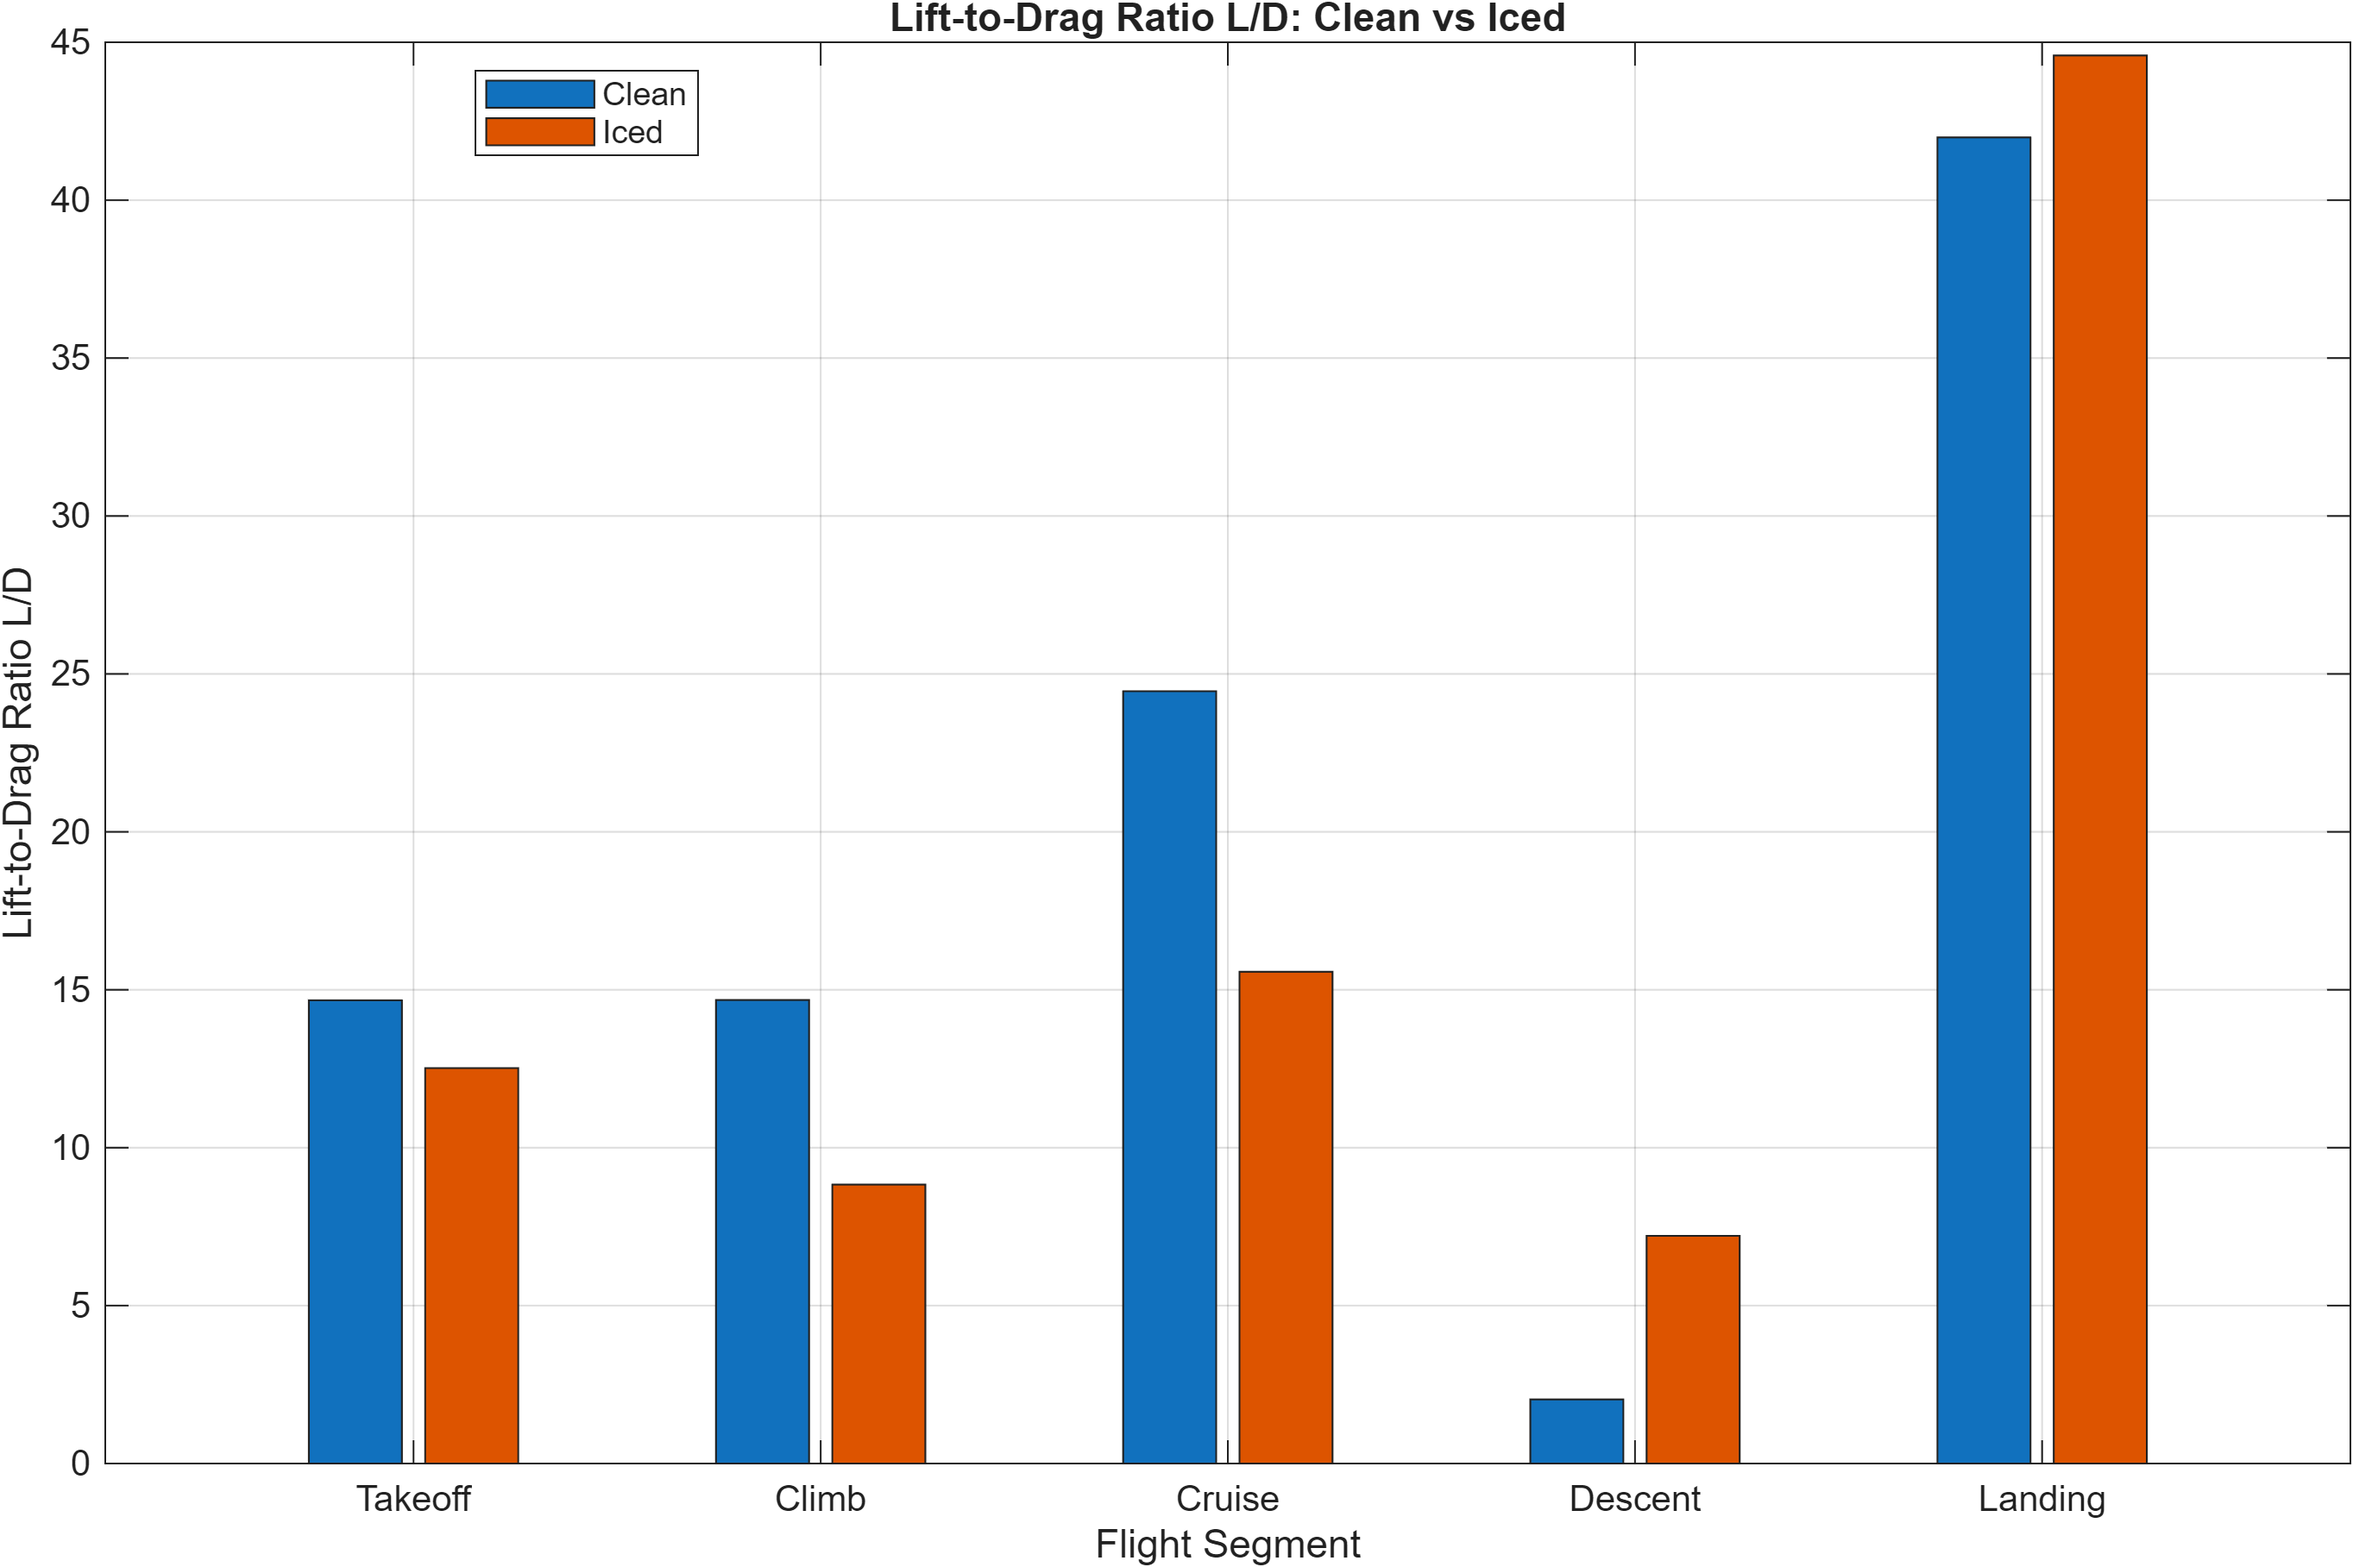
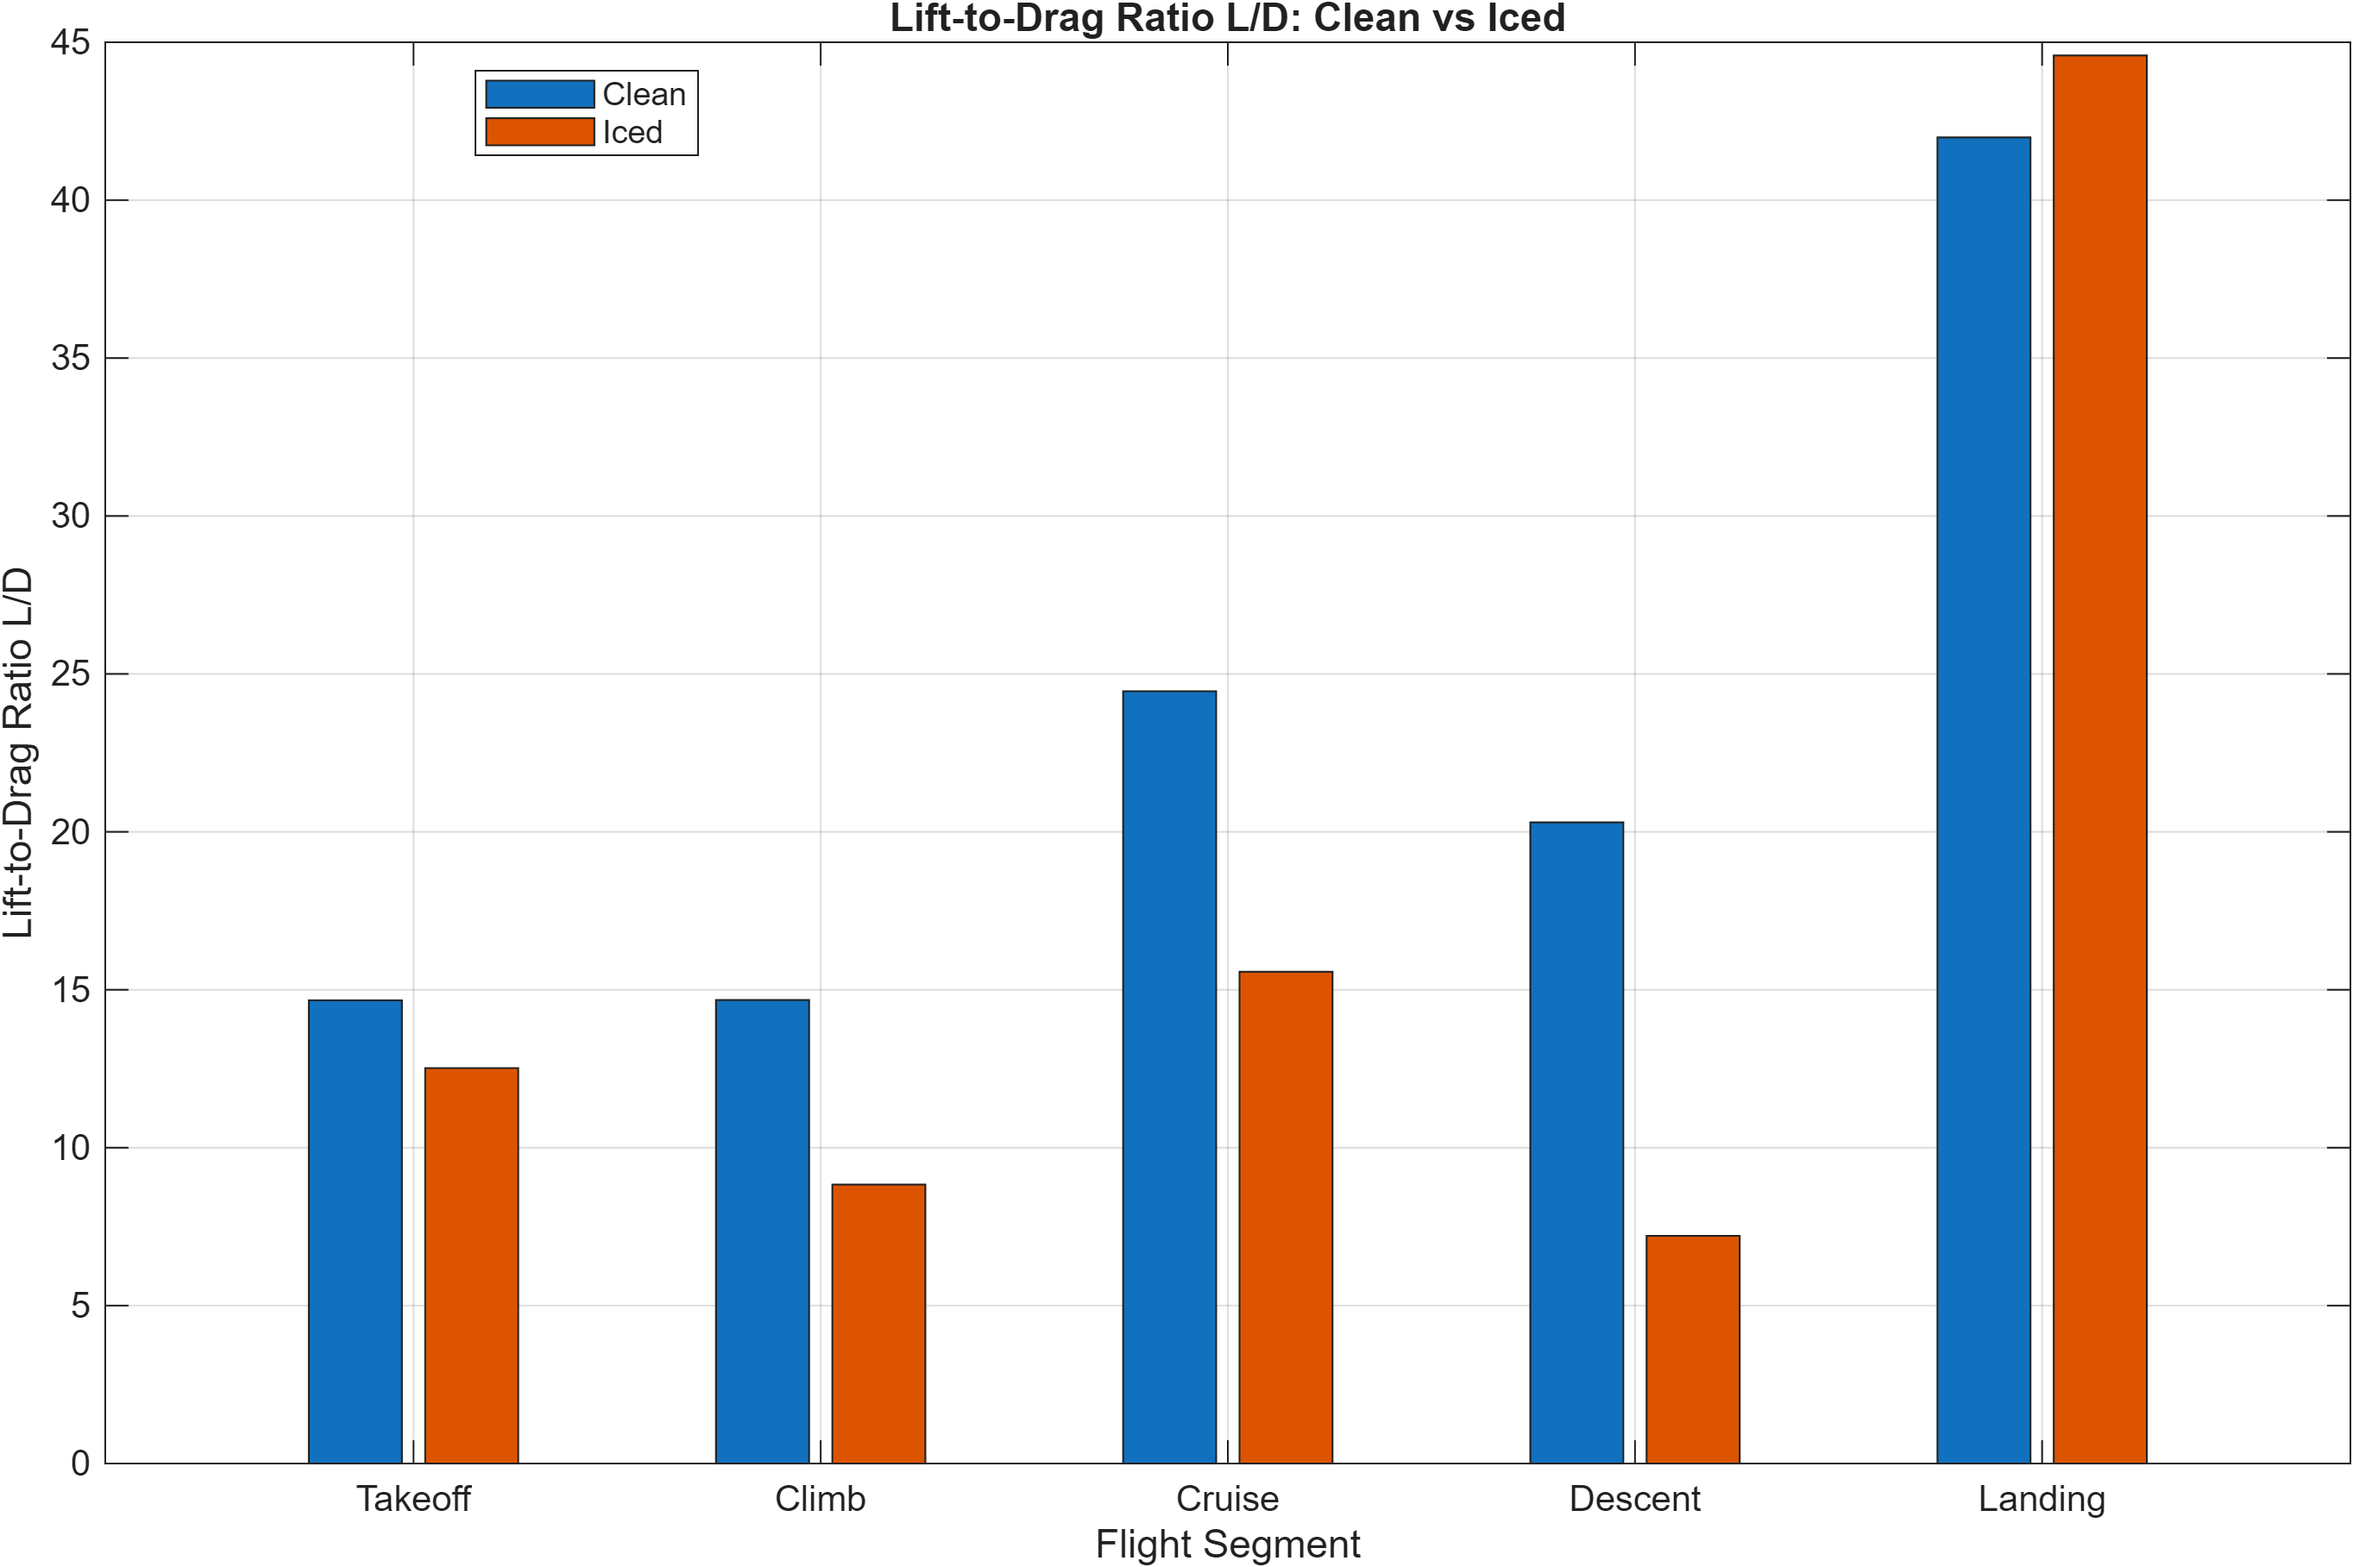
fixed a chart

Changed region(s): [[0.6234, 0.5239, 0.7169, 0.8938]]

diff --git a/src/plot_flight_comparison.m b/src/plot_flight_comparison.m
@@ -5,7 +5,7 @@ segments = ["Takeoff"; "Climb"; "Cruise"; "Descent"; "Landing"];
 
 % Clean data
 CL_clean = [0.80684; 0.8013; 0.31079; 0.5154 ; 0.6802];
-CD_clean = [0.055013; 0.0546; 0.012710; 0.2539; 0.0162];
+CD_clean = [0.055013; 0.0546; 0.012710; 0.02539; 0.0162];
 mf_clean = [332.67; 6812.7; 12403.974; 1.1211; 51.32];
 
 tbl_clean = make_flight_table(segments, CL_clean, CD_clean, mf_clean);
